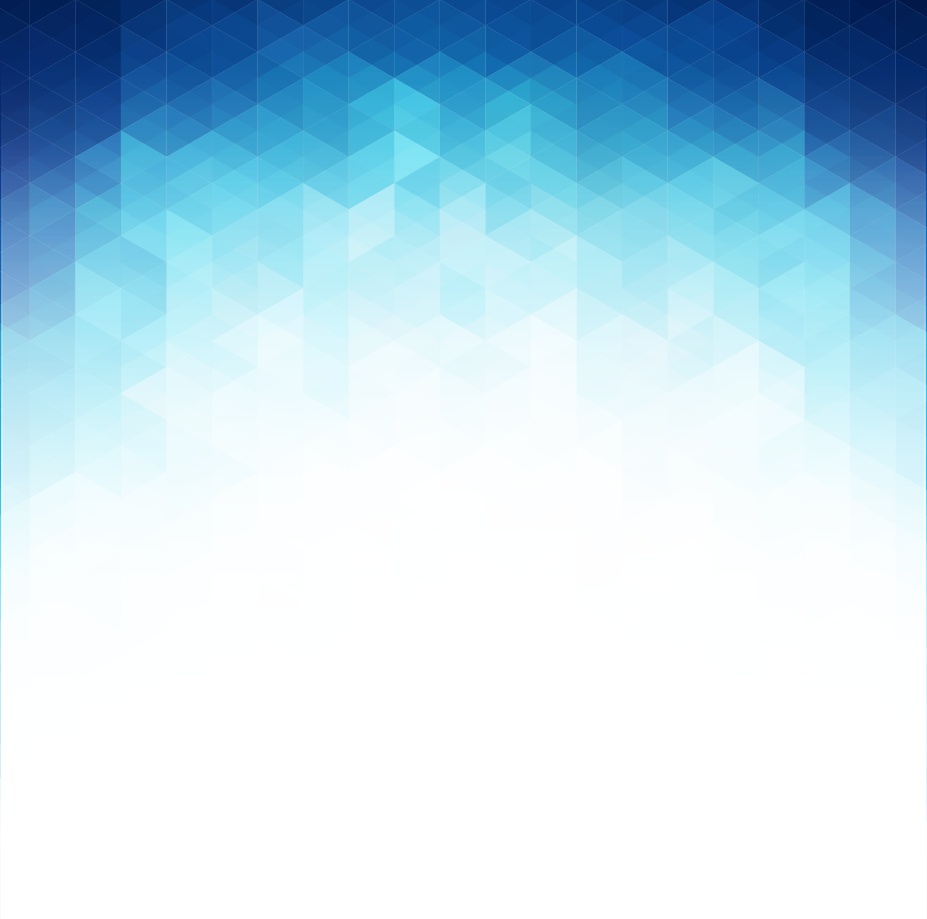
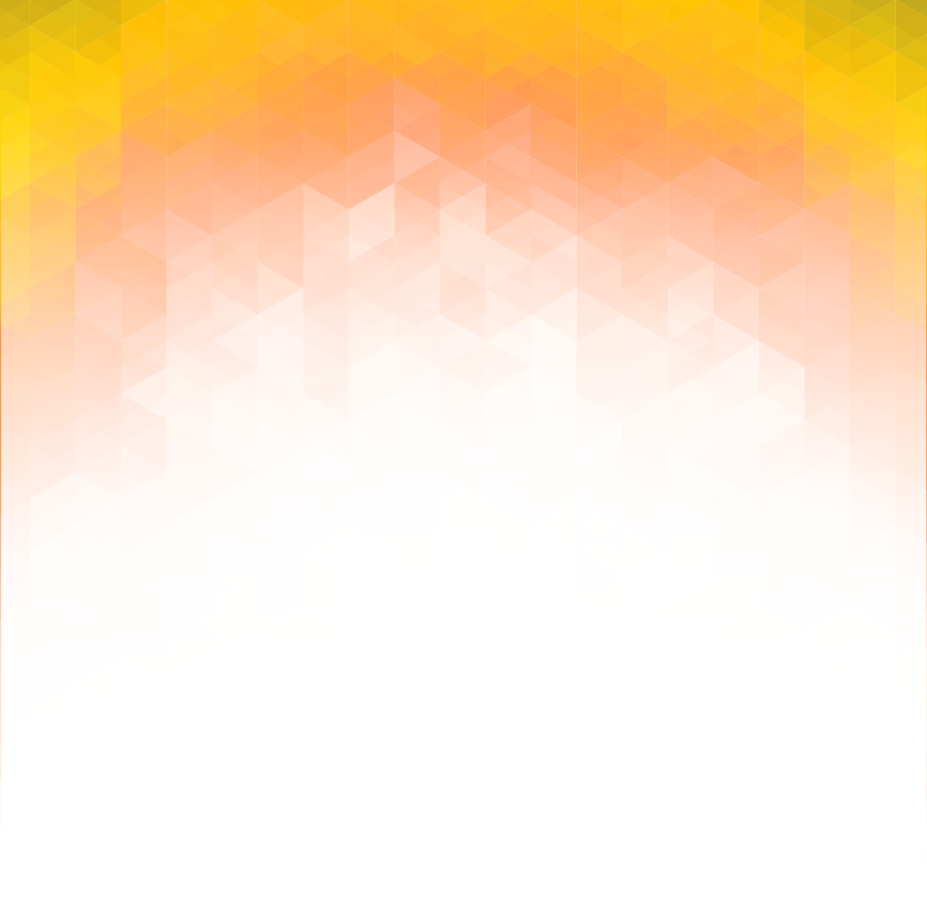
Refacto for Atecna

diff --git a/src/components/AppBar.js b/src/components/AppBar.js
@@ -4,7 +4,7 @@ import './AppBar.css';
 const AppBar = () => (
     <nav>
         <div className="nav-wrapper HeaderBar">
-            <img src="/resources/images/logo.png" alt="Proxiad" />
+            <img src="/resources/images/logo.png" alt="Atecna" />
         </div>
     </nav>
 );

diff --git a/src/components/AppBar.css b/src/components/AppBar.css
@@ -1,5 +1,5 @@
 .HeaderBar {
-	background-color: #275aab;
+	background: linear-gradient(229deg, #FF7000 0%, #E70700 100%);
 	color: white;
 	font-weight : bold;
 }
